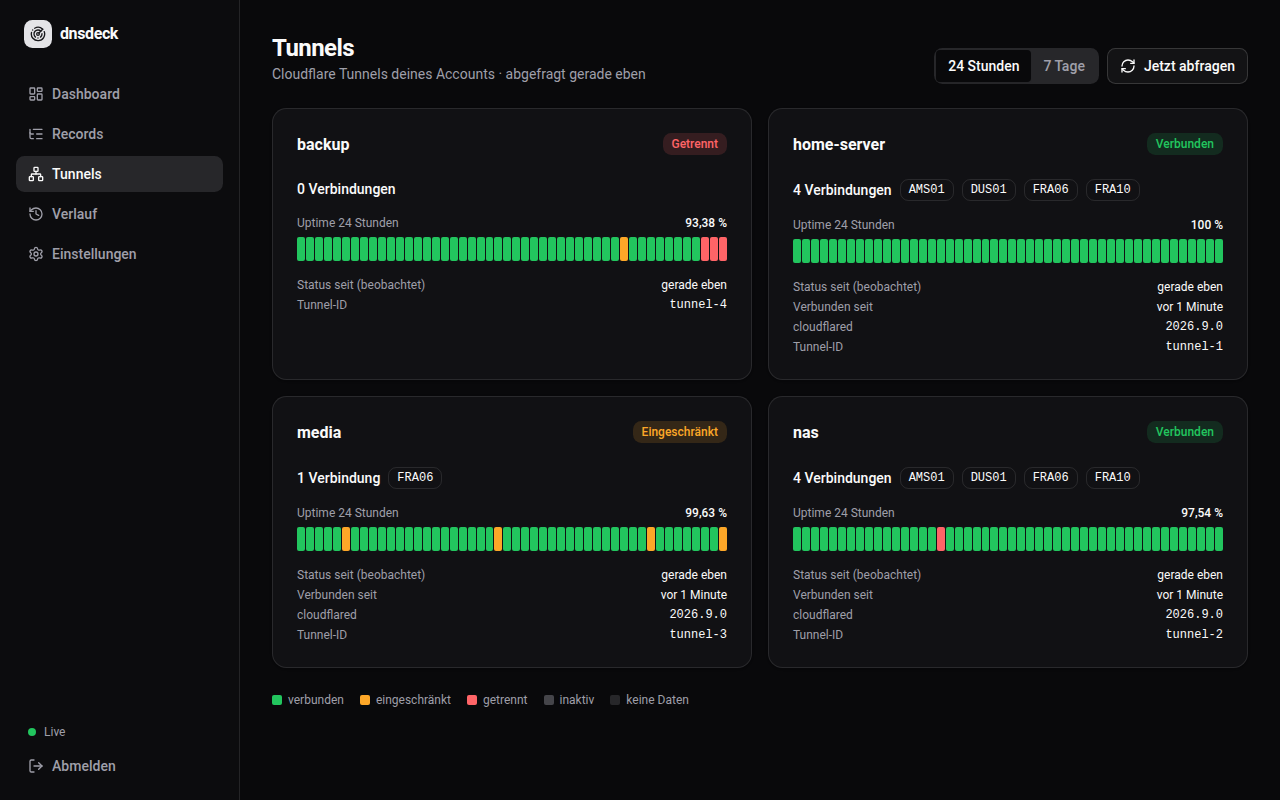
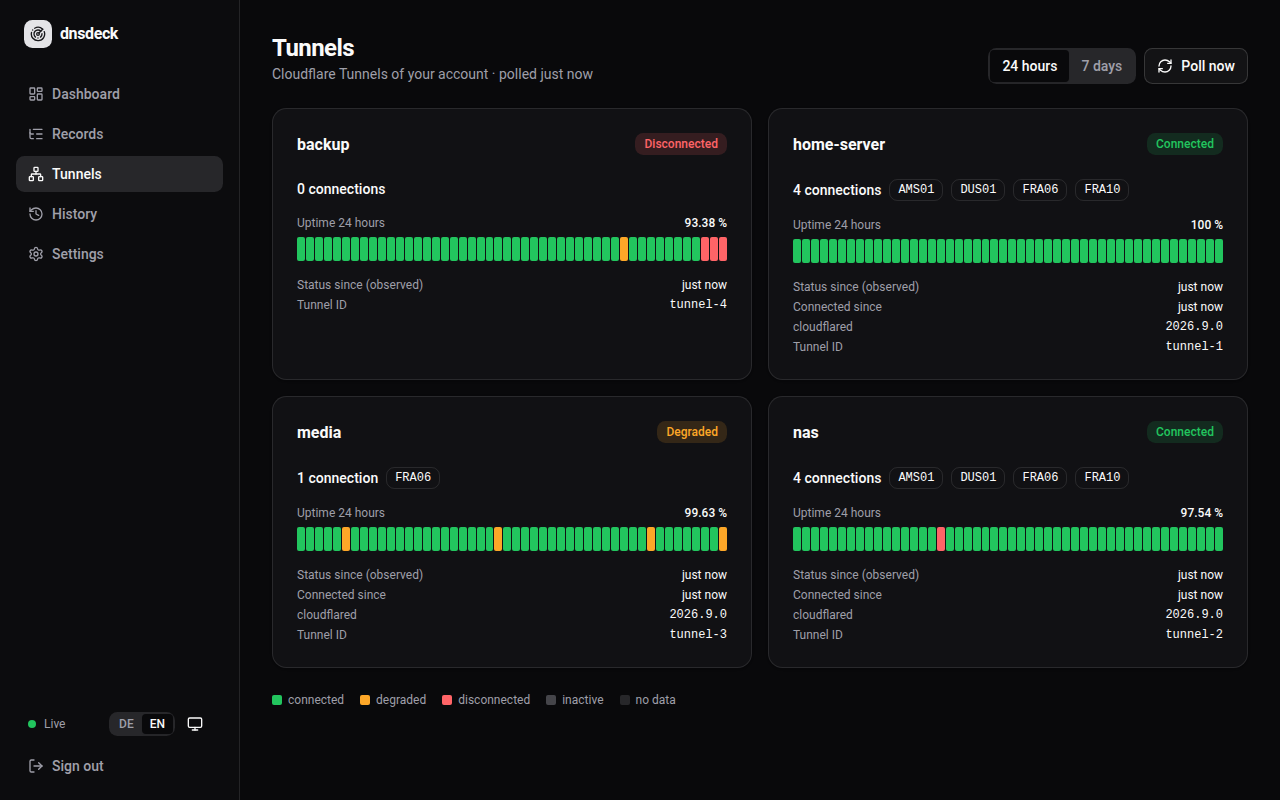
Dokumentation für 0.2.0: Sprache, Verbreitung, Darstellung
- README (EN/DE): DNS-Verbreitung, Sprache und Darstellung, DNSCHECK_*
- CHANGELOG 0.2.0, .env.example und Compose-Beispiel auf 0.2.0
- Screenshots neu: englische Oberfläche für README.md, deutsche für README.de.md

diff --git a/README.de.md b/README.de.md
@@ -10,13 +10,13 @@
 
 [English](README.md) · Deutsch
 
-![Dashboard](docs/screenshots/dashboard.png)
+![Dashboard](docs/screenshots/de/dashboard.png)
 
 </div>
 
 dnsdeck hält DNS-Einträge bei Cloudflare automatisch auf der aktuellen öffentlichen
 IP-Adresse, zeigt nachvollziehbar, was sich wann geändert hat, und überwacht Cloudflare
-Tunnels. Ausgeliefert wird ein einzelner, kleiner Container (≈ 25 MB, amd64 und arm64) mit
+Tunnels. Ausgeliefert wird ein einzelner, kleiner Container (≈ 30 MB, amd64 und arm64) mit
 eingebauter Weboberfläche und SQLite-Datenbank.
 
 ## Funktionen
@@ -27,10 +27,13 @@ eingebauter Weboberfläche und SQLite-Datenbank.
 - **DynDNS für Cloudflare** – A- und AAAA-Einträge verwalten (Proxy-Status, TTL). Geändert
   wird nur, wenn der tatsächliche Stand bei Cloudflare abweicht; fehlende Einträge werden
   angelegt.
+- **DNS-Verbreitungsstatus** – nach jeder Änderung fragt dnsdeck öffentliche Resolver
+  (Cloudflare, Google, Quad9, OpenDNS) und die autoritativen Nameserver der Zone, ob sie die
+  neue Adresse schon liefern, und zeigt je Eintrag, wie weit die Änderung verbreitet ist.
 - **Cloudflare-Tunnel-Monitoring** – Status, aktive Verbindungen, Rechenzentren,
   Client-Versionen und Uptime über 24 Stunden bzw. 7 Tage je Tunnel.
-- **Live-Dashboard** – aktualisiert sich sofort per Server-Sent Events, Dark Mode, mobil
-  nutzbar.
+- **Live-Dashboard** – aktualisiert sich sofort per Server-Sent Events, mobil nutzbar; heller
+  und dunkler Modus nach Systemeinstellung; Deutsch und Englisch.
 - **Verlauf** – IP-Wechsel, DNS-Updates und Tunnel-Statuswechsel, filterbar.
 - **Benachrichtigungen per Webhook** – beliebig viele Webhooks mit eigener Methode, URL,
   eigenen Headern und Body-Template. Vorlagen für ntfy, Gotify, Discord, Slack, Telegram und
@@ -40,7 +43,7 @@ eingebauter Weboberfläche und SQLite-Datenbank.
 
 | Records | Tunnels | Webhooks |
 |---|---|---|
-| ![Records](docs/screenshots/records.png) | ![Tunnels](docs/screenshots/tunnels.png) | ![Webhooks](docs/screenshots/webhooks.png) |
+| ![Records](docs/screenshots/de/records.png) | ![Tunnels](docs/screenshots/de/tunnels.png) | ![Webhooks](docs/screenshots/de/webhooks.png) |
 
 ## Schnellstart
 
@@ -77,10 +80,12 @@ Intervalle, IP-Quellen und Webhooks werden in der Weboberfläche gepflegt.
 | `APP_PASSWORD` | ja | Passwort für die Weboberfläche (Klartext oder bcrypt-Hash, max. 72 Bytes) |
 | `CF_API_TOKEN` | für DNS/Tunnels | Cloudflare-API-Token, siehe unten |
 | `CF_ACCOUNT_ID` | für Tunnels | Cloudflare-Account-ID |
-| `DNSDECK_VERSION` | ja (Compose) | Zu startende Image-Version, z. B. `0.1.0` – bewusst fest, kein `latest` |
+| `DNSDECK_VERSION` | ja (Compose) | Zu startende Image-Version, z. B. `0.2.0` – bewusst fest, kein `latest` |
 | `DNSDECK_PORT` | nein | Port auf dem Host für die Weboberfläche (Standard `8080`) |
 | `TZ` | nein | Zeitzone für Log-Zeitstempel (Standard `UTC`) |
 | `WEBHOOK_*` | nein | Geheimnisse für Webhooks, siehe [Benachrichtigungen](#benachrichtigungen) |
+| `DNSCHECK_RESOLVERS` | nein | Resolver für die Verbreitungsprüfung, kommagetrennt `[Name=]IP[:Port]`; leer = Standardliste, `off` = abgeschaltet, siehe [DNS-Verbreitung](#dns-verbreitung) |
+| `DNSCHECK_AUTHORITATIVE` | nein | `off` = autoritative Nameserver der Zone nicht abfragen (Standard `on`) |
 | `LOG_LEVEL` | nein | `debug`, `info`, `warn` oder `error` (Standard `info`) |
 | `PORT`, `DATA_DIR` | nein | Port und Datenbankverzeichnis im Container (Standard `8080`, `/data`) |
 
@@ -107,11 +112,47 @@ Unter *Mein Profil → API-Token* ein benutzerdefiniertes Token mit diesen Recht
   schreibt nur bei Abweichungen. Die IP wird immer durchgesetzt; bei Proxy-Status und TTL hat
   Cloudflare das letzte Wort – dnsdeck überträgt sie nur, wenn sie in dnsdeck geändert
   wurden. Bestehende Einträge werden mit ihren aktuellen Cloudflare-Werten übernommen.
+- **DNS-Verbreitung:** siehe [unten](#dns-verbreitung).
 - **Entfernen** eines Eintrags in dnsdeck beendet nur die Verwaltung; der Eintrag bei
   Cloudflare bleibt bestehen.
 - **Tunnels** werden standardmäßig alle 60 Sekunden abgefragt. dnsdeck speichert Zeiträume
   gleichen Status (30 Tage Verlauf); Zeiten ohne Daten – etwa während dnsdeck offline war –
   erscheinen als unbekannt und zählen nicht als Uptime. `degraded` gilt als erreichbar.
+
+## DNS-Verbreitung
+
+Nach dem Anlegen oder Ändern eines Eintrags prüft dnsdeck, ob die Änderung im DNS angekommen
+ist: 10 Sekunden nach der Änderung und danach alle 30 Sekunden, bis alle Server den neuen
+Stand liefern – höchstens für die TTL des Eintrags plus zwei Minuten (automatische TTL zählt
+als 5 Minuten, nie länger als eine Stunde). Die Spalte **Verbreitung** auf der Seite Records
+zeigt das Ergebnis; ein Klick öffnet die Antwort jedes Servers mit der verbleibenden
+Cache-Zeit, **Jetzt prüfen** wiederholt die Prüfung jederzeit.
+
+- **Öffentliche Resolver** (Standard: Cloudflare `1.1.1.1`, Google `8.8.8.8`, Quad9
+  `9.9.9.9`, OpenDNS `208.67.222.222`) antworten aus ihrem Cache und zeigen, was Clients
+  gerade sehen.
+- **Autoritative Nameserver** der Zone werden direkt gefragt und zeigen den aktuellen Stand
+  bei Cloudflare.
+- **Proxied Einträge** lösen auf Cloudflare-Adressen auf; geprüft wird daher nur die
+  Auflösbarkeit.
+- Server ohne Antwort werden angezeigt, zählen aber nicht gegen das Ergebnis.
+
+Die Prüfung sendet nur DNS-Anfragen für die verwalteten Namen (UDP/TCP Port 53). Mit
+`DNSCHECK_RESOLVERS` lassen sich andere Resolver wählen, z. B.
+`DNSCHECK_RESOLVERS=Quad9=9.9.9.9,Lokal=192.168.1.1:53`; `DNSCHECK_RESOLVERS=off` schaltet die
+Funktion ab.
+
+## Sprache und Darstellung
+
+Die Weboberfläche gibt es auf Deutsch und Englisch. Sie folgt der Browsersprache und lässt
+sich mit **DE | EN** in der Seitenleiste oder auf der Anmeldeseite umschalten; die Wahl
+merkt sich der Browser. Server-Meldungen (Fehler, Record-Status, Update-Protokoll) folgen der
+gewählten Sprache; Einträge aus Versionen vor 0.2.0 behalten ihren ursprünglichen deutschen
+Text. Die Sprache der Benachrichtigungen ist eine eigene Einstellung unter **Einstellungen**
+(Standard Deutsch).
+
+Der Darstellungs-Button daneben wechselt zwischen **System** (Standard, folgt live dem
+Betriebssystem), **Hell** und **Dunkel**.
 
 ## Benachrichtigungen
 
@@ -189,6 +230,15 @@ CF_API_TOKEN=dev CF_ACCOUNT_ID=dev-account CF_API_BASE_URL=http://localhost:8787
 
 curl -X POST 'localhost:8787/_tunnel?name=home&status=down'   # Tunnel-Status ändern
 curl -X POST 'localhost:8787/_fail?status=500'                # Ausfall simulieren (0 = Ende)
+```
+
+Die Nachbildung beantwortet auf Wunsch auch DNS-Anfragen für ihre Einträge, zum Testen der
+Verbreitungsprüfung (`-dns-lagged` liefert den Stand von vor `-dns-lag`, wie ein
+Resolver-Cache):
+
+```sh
+go run ./cmd/cfmock -token dev -zones example.com -dns 127.0.0.1:8553 -dns-lagged 127.0.0.1:8554 -dns-lag 30s
+DNSCHECK_RESOLVERS='Aktuell=127.0.0.1:8553,Verzögert=127.0.0.1:8554' DNSCHECK_AUTHORITATIVE=off … go run ./cmd/server
 ```
 
 Prüfungen (laufen alle auch in der CI):

diff --git a/README.md b/README.md
@@ -16,9 +16,7 @@ English · [Deutsch](README.de.md)
 
 dnsdeck keeps your Cloudflare DNS records pointed at your current public IP address, shows
 what changed and when, and watches your Cloudflare Tunnels. It ships as a single small
-container (≈ 25 MB, amd64 and arm64) with an embedded web interface and an SQLite database.
-
-> **Note:** The web interface is currently available in German.
+container (≈ 30 MB, amd64 and arm64) with an embedded web interface and an SQLite database.
 
 ## Features
 
@@ -27,9 +25,13 @@ container (≈ 25 MB, amd64 and arm64) with an embedded web interface and an SQL
   triggers a DNS update.
 - **Dynamic DNS for Cloudflare** – manage A and AAAA records (proxy status, TTL). Records are
   only changed when the actual state at Cloudflare differs; missing records are created.
+- **DNS propagation status** – after every change dnsdeck asks public resolvers (Cloudflare,
+  Google, Quad9, OpenDNS) and the zone's authoritative name servers whether they already
+  return the new address, and shows per record how far the change has spread.
 - **Cloudflare Tunnel monitoring** – status, active connections, data centers, client
   versions and 24 h / 7 day uptime per tunnel.
-- **Live dashboard** – updates instantly via Server-Sent Events, dark mode, works on mobile.
+- **Live dashboard** – updates instantly via Server-Sent Events, works on mobile; light and
+  dark mode following the system setting; English and German.
 - **History** – IP changes, DNS updates and tunnel status changes, filterable.
 - **Notifications via webhooks** – any number of webhooks with custom method, URL, headers
   and body template. Templates included for ntfy, Gotify, Discord, Slack, Telegram and
@@ -75,10 +77,12 @@ intervals, IP sources and webhooks are managed in the web interface.
 | `APP_PASSWORD` | yes | Password for the web interface (plain text or bcrypt hash, max. 72 bytes) |
 | `CF_API_TOKEN` | for DNS / tunnels | Cloudflare API token, see below |
 | `CF_ACCOUNT_ID` | for tunnels | Cloudflare account ID |
-| `DNSDECK_VERSION` | yes (Compose) | Image version to run, e.g. `0.1.0` – pinned on purpose, no `latest` |
+| `DNSDECK_VERSION` | yes (Compose) | Image version to run, e.g. `0.2.0` – pinned on purpose, no `latest` |
 | `DNSDECK_PORT` | no | Host port for the web interface (default `8080`) |
 | `TZ` | no | Time zone for log timestamps (default `UTC`) |
 | `WEBHOOK_*` | no | Secrets referenced by webhooks, see [Notifications](#notifications) |
+| `DNSCHECK_RESOLVERS` | no | Resolvers for the propagation check, comma-separated `[Name=]IP[:port]`; empty = default list, `off` = disabled, see [DNS propagation](#dns-propagation) |
+| `DNSCHECK_AUTHORITATIVE` | no | `off` = do not query the zone's authoritative name servers (default `on`) |
 | `LOG_LEVEL` | no | `debug`, `info`, `warn` or `error` (default `info`) |
 | `PORT`, `DATA_DIR` | no | Port and database directory inside the container (default `8080`, `/data`) |
 
@@ -105,10 +109,43 @@ use *Client IP Address Filtering* – the token would lock itself out after your
   writes when something differs. The IP is always enforced; for proxy status and TTL the value
   at Cloudflare wins – dnsdeck only pushes them when you change them in dnsdeck. Existing
   records are adopted with their current Cloudflare settings.
+- **DNS propagation:** see [below](#dns-propagation).
 - **Removing a record** in dnsdeck only stops managing it; the record at Cloudflare stays.
 - **Tunnels** are polled every 60 seconds by default. dnsdeck stores periods of equal status (30 days of
   history); times without data – for example while dnsdeck was offline – are shown as unknown
   instead of being counted as uptime. `degraded` counts as available.
+
+## DNS propagation
+
+After a record has been created or changed, dnsdeck checks whether the change has reached the
+DNS: 10 seconds after the change and then every 30 seconds until all servers return the new
+state – at most for the record's TTL plus two minutes (automatic TTL counts as 5 minutes,
+never longer than an hour). The **Propagation** column on the records page shows the result;
+a click opens the answer of every server with its remaining cache time, and **Check now**
+repeats the check at any time.
+
+- **Public resolvers** (default: Cloudflare `1.1.1.1`, Google `8.8.8.8`, Quad9 `9.9.9.9`,
+  OpenDNS `208.67.222.222`) answer from their cache and show what clients currently see.
+- **Authoritative name servers** of the zone are queried directly and show the current state
+  at Cloudflare.
+- **Proxied records** resolve to Cloudflare addresses, so only resolvability is checked.
+- Servers that do not answer are shown but do not count against the result.
+
+The check only sends DNS queries for your managed record names (UDP/TCP port 53). Use
+`DNSCHECK_RESOLVERS` to choose other resolvers, for example
+`DNSCHECK_RESOLVERS=Quad9=9.9.9.9,Local=192.168.1.1:53`, or `DNSCHECK_RESOLVERS=off` to disable
+the feature.
+
+## Languages and appearance
+
+The web interface is available in English and German. It follows the browser language and
+can be switched with **EN | DE** in the sidebar or on the login page; the choice is stored in
+the browser. Server messages (errors, record status, update log) follow the chosen language;
+entries written by versions before 0.2.0 keep their original German text. The language of
+notifications is a separate setting under **Settings** (default German).
+
+The theme button next to it switches between **System** (default, follows the operating
+system live), **Light** and **Dark**.
 
 ## Notifications
 
@@ -184,6 +221,14 @@ CF_API_TOKEN=dev CF_ACCOUNT_ID=dev-account CF_API_BASE_URL=http://localhost:8787
 
 curl -X POST 'localhost:8787/_tunnel?name=home&status=down'   # change a tunnel status
 curl -X POST 'localhost:8787/_fail?status=500'                # simulate an outage (0 = end)
+```
+
+The mock can also answer DNS queries for its records, for testing the propagation check
+(`-dns-lagged` serves the state from `-dns-lag` ago, like a resolver cache):
+
+```sh
+go run ./cmd/cfmock -token dev -zones example.com -dns 127.0.0.1:8553 -dns-lagged 127.0.0.1:8554 -dns-lag 30s
+DNSCHECK_RESOLVERS='Current=127.0.0.1:8553,Lagged=127.0.0.1:8554' DNSCHECK_AUTHORITATIVE=off … go run ./cmd/server
 ```
 
 Checks (all run in CI):

diff --git a/CHANGELOG.md b/CHANGELOG.md
@@ -6,10 +6,24 @@ and this project adheres to [Semantic Versioning](https://semver.org/spec/v2.0.0
 
 ## [Unreleased]
 
+## [0.2.0] – 2026-09-30
+
+### Added
+- English web interface: the language follows the browser and can be switched (EN | DE);
+  server messages (errors, record status, update log) are translated as well.
+- Setting for the language of notifications (default German).
+- DNS propagation status per record: public resolvers and the zone's authoritative name
+  servers are checked automatically after every change and on demand. Configurable with
+  `DNSCHECK_RESOLVERS` and `DNSCHECK_AUTHORITATIVE`.
+- Light mode: the appearance follows the system setting or can be set to light or dark.
+
 ### Changed
 - Docker Compose: the image version is pinned via `DNSDECK_VERSION` in `.env` (required,
   no `latest`); host port (`DNSDECK_PORT`) and time zone (`TZ`, default `UTC`) are configurable.
 - Documentation in English and German, MIT license.
+
+### Notes
+- Update log entries written by 0.1.0 keep their original German text.
 
 ## [0.1.0] – 2026-09-30
 
@@ -25,5 +39,6 @@ First public release.
   Home Assistant; secrets referenced from environment variables.
 - Single-container deployment (distroless, non-root, amd64 and arm64) published to ghcr.io.
 
-[Unreleased]: https://github.com/mrcdlm/dnsdeck/compare/v0.1.0...HEAD
+[Unreleased]: https://github.com/mrcdlm/dnsdeck/compare/v0.2.0...HEAD
+[0.2.0]: https://github.com/mrcdlm/dnsdeck/compare/v0.1.0...v0.2.0
 [0.1.0]: https://github.com/mrcdlm/dnsdeck/releases/tag/v0.1.0

diff --git a/CLAUDE.md b/CLAUDE.md
@@ -26,10 +26,12 @@ Läuft als **ein einziger Docker-Container** auf jedem Linux-Host mit Docker Com
 /internal/providers  DNS-Provider (Interface + cloudflare/ als erste Implementierung)
 /internal/tunnels    Cloudflare-Tunnel-Monitoring
 /internal/notify     Benachrichtigungen (generische Webhooks)
+/internal/dnscheck   DNS-Verbreitungsprüfung (öffentliche Resolver + autoritative NS)
+/internal/i18n       Nachrichtenkatalog DE/EN für alle Server-Meldungen
 /internal/scheduler  periodische Jobs
 /internal/store      SQLite, Migrationen
 /internal/api        HTTP-Handler, SSE
-/web                 React-Frontend (Vite)
+/web                 React-Frontend (Vite), Texte in web/src/locales/{de,en}.json
 /deploy              docker-compose.yml, Beispiel-.env
 ```
 
